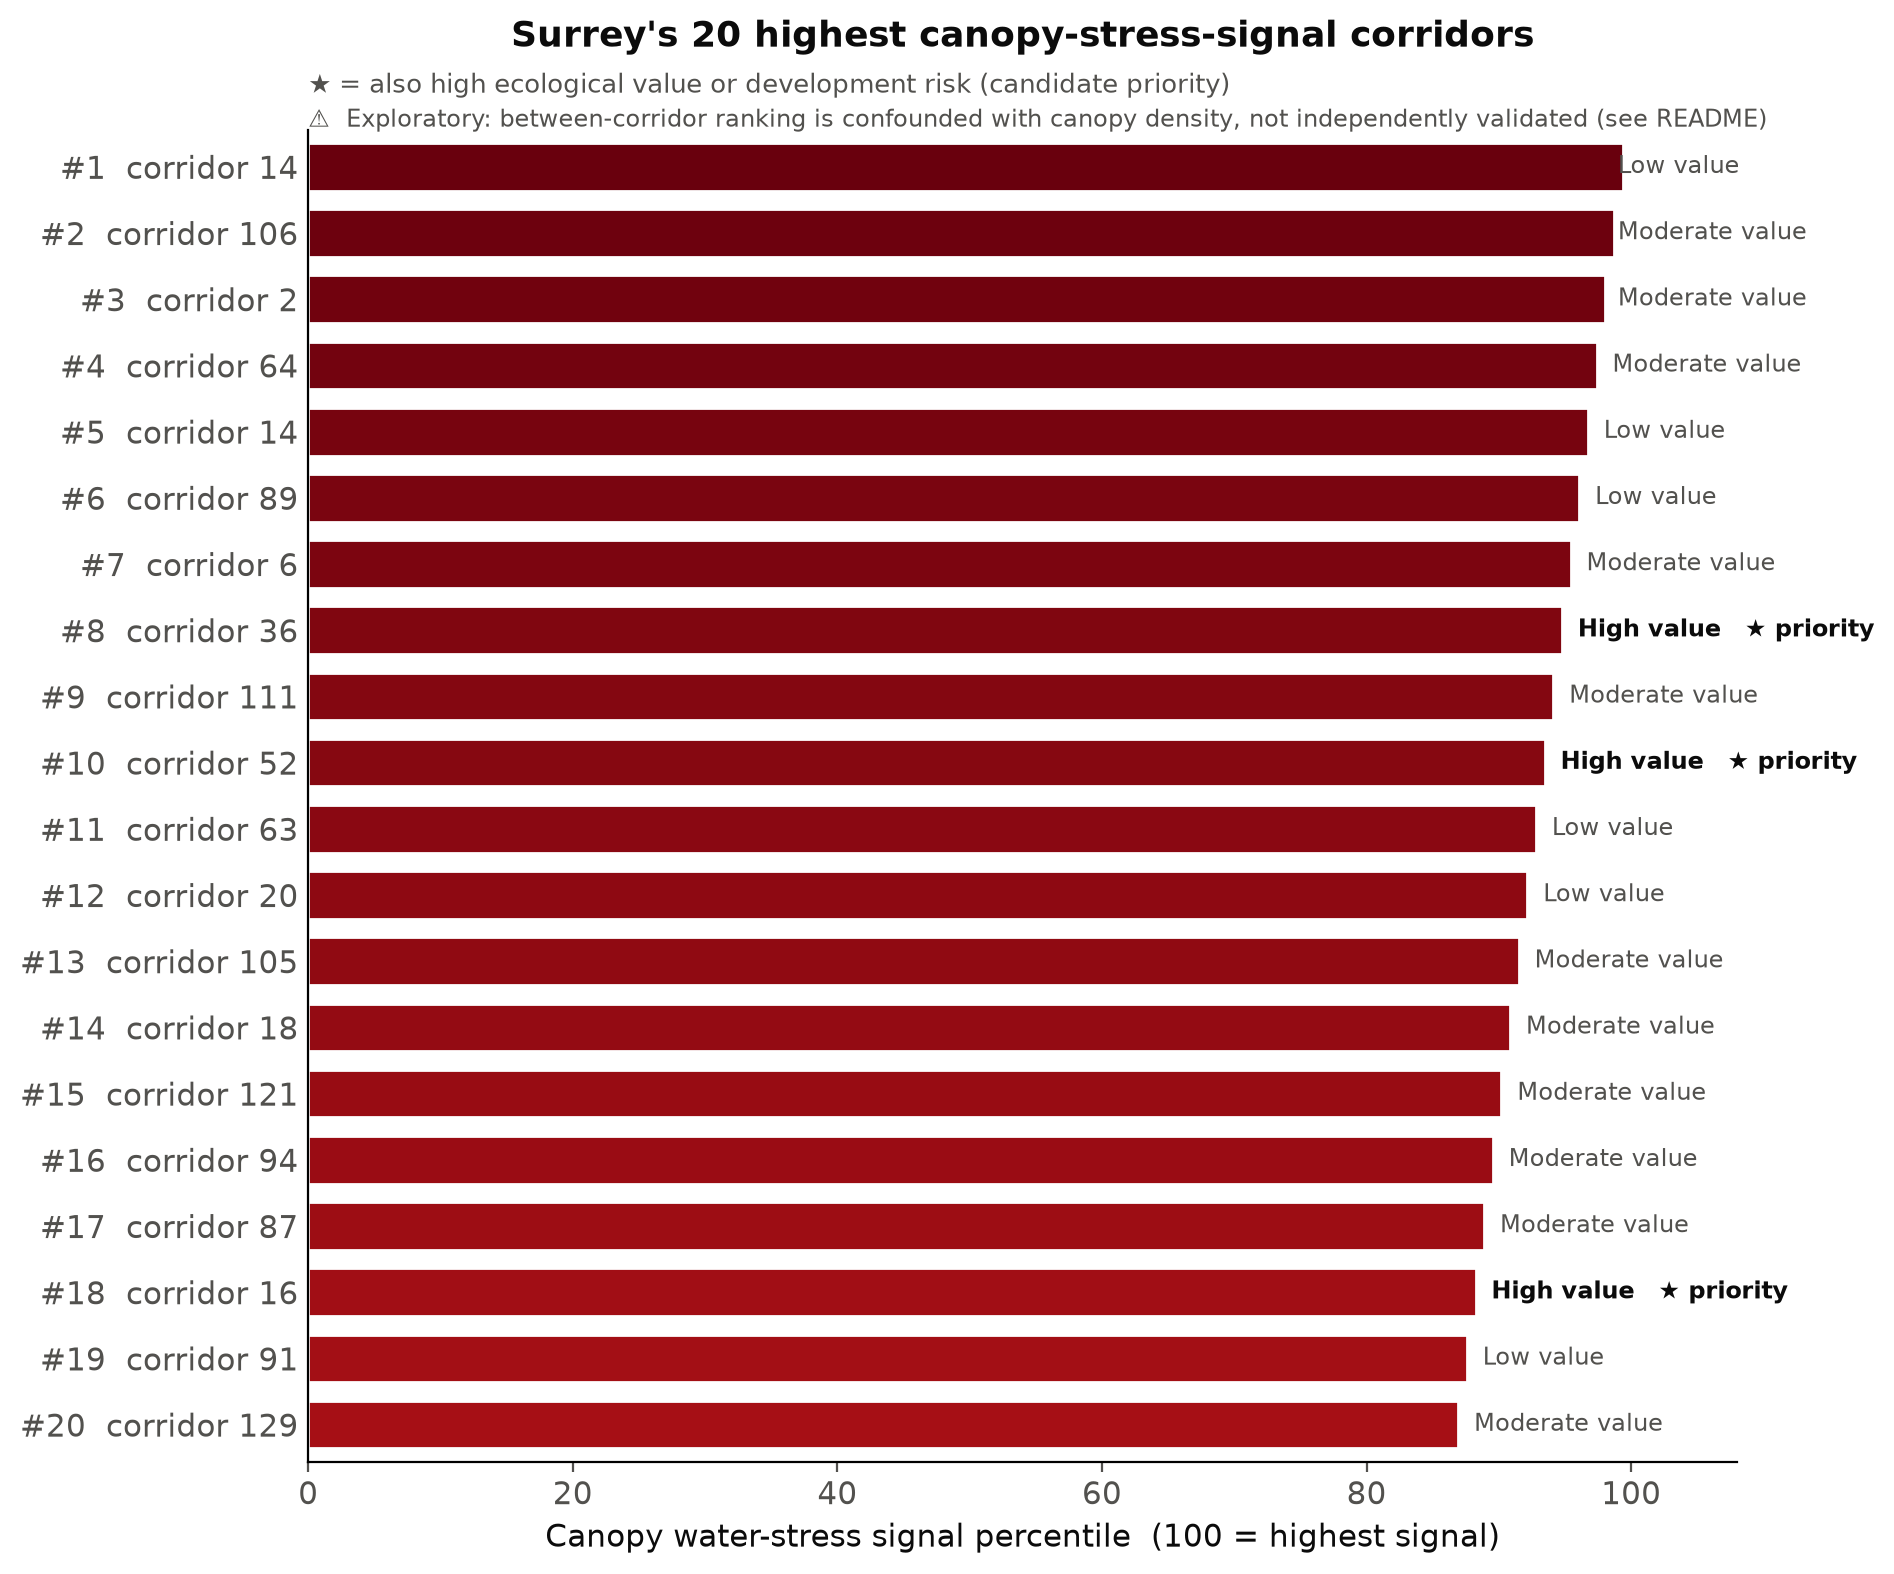
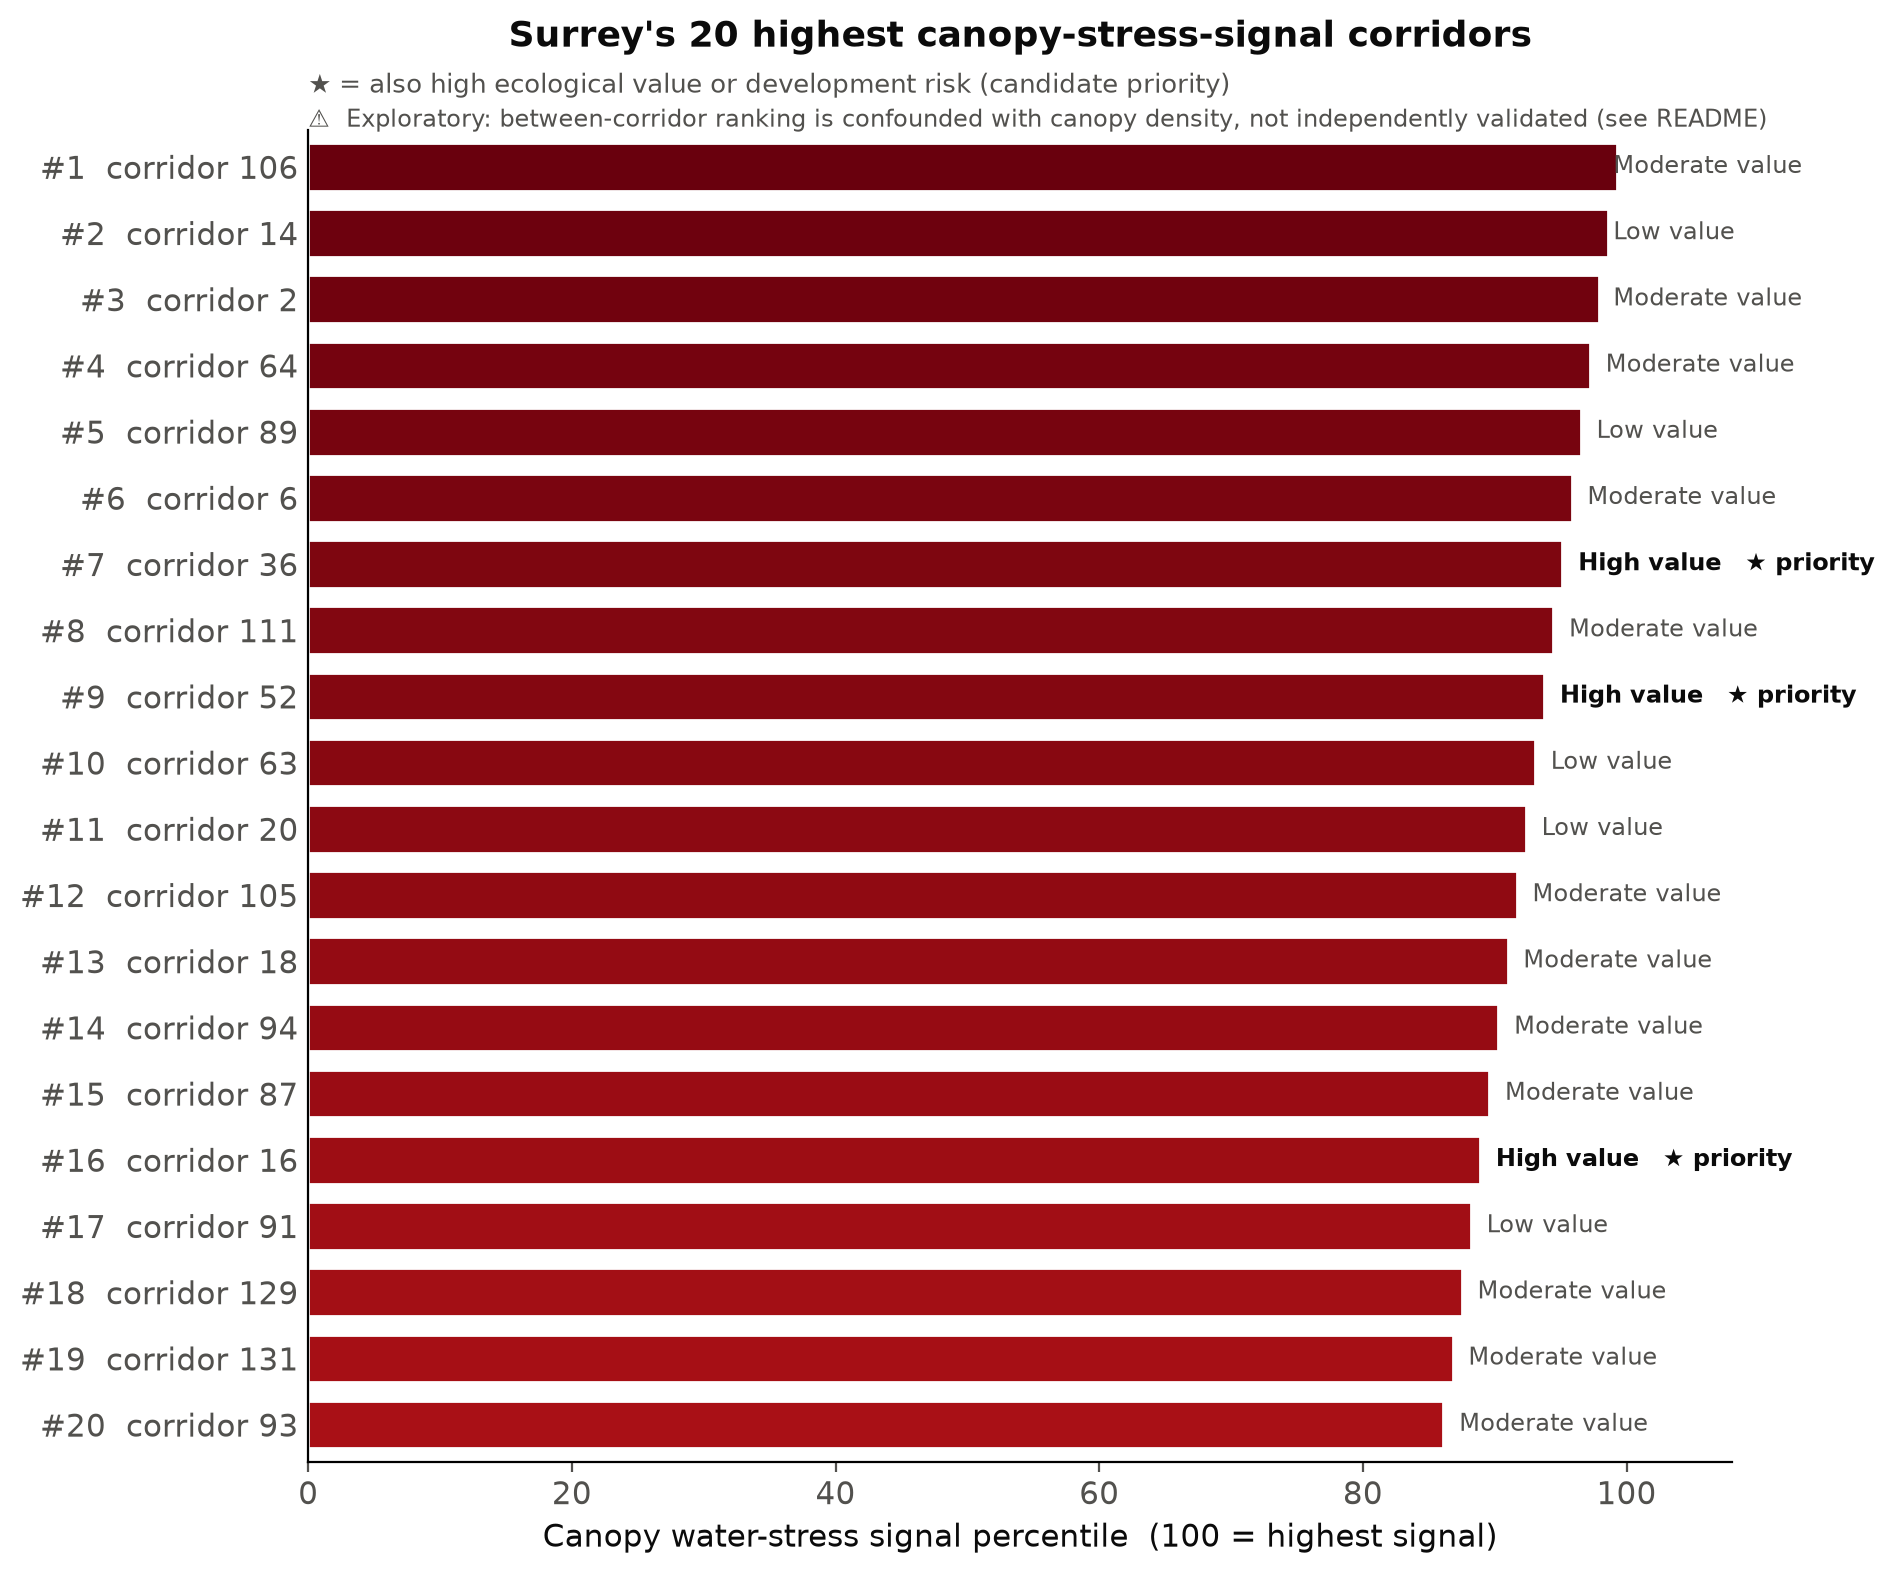
Deliverable figures name corridors, and count them correctly
The unit pass reached the manuscript on 2026-07-29 but not the deliverable side.
fig2_top_ranking was drawn from the polygon table while labelling bars with GIN
ids, so GIN 14 appeared twice -- ranks 1 and 5, two different stress values --
because that corridor is digitised in two pieces. run() now hands it gin_table(),
and fig_top_ranking warns if it is passed a table with repeated GIN ids.

fig3_dry_edge said "each dot = one corridor" over 153 polygon dots; it now names
both units and counts the GIN one from the panel so the subtitle cannot drift
from what is plotted.

diff --git a/src/pipeline/corridor_stress.py b/src/pipeline/corridor_stress.py
@@ -264,11 +264,24 @@ def fig_stress_map(gdf, out_path: Path, top_n: int = 8, *, standalone: bool = Tr
 
 
 def fig_top_ranking(gdf, out_path: Path, top_n: int = 20, *, standalone: bool = True):
+    """A ranked bar chart of the most-stressed units.
+
+    Pass the GIN table, not the polygon table. A polygon-level top-20 labelled by
+    GIN id lists GIN 14 twice — at ranks 1 and 5, with two different stress values
+    — because that corridor is digitised in two pieces. Ranking a corridor twice
+    is an artifact of digitisation and reads as a mistake to anyone who knows the
+    network.
+    """
     import matplotlib.pyplot as plt
     from matplotlib import colors
 
     _style()
     top = gdf.nsmallest(top_n, "stress_rank").iloc[::-1]
+    if "gin_id" in top.columns:
+        dupes = top["gin_id"].duplicated().sum()
+        if dupes:
+            logger.warning("top-%d contains %d repeated GIN id(s) — this looks like "
+                           "the polygon table; pass gin_table(gdf) instead", top_n, dupes)
     norm = colors.Normalize(0, 100)
     bar_c = plt.get_cmap(STRESS_CMAP)(norm(top["stress_pctile"]))
     # Labelled by GIN id — the number Surrey uses. objectid is an ArcGIS row
@@ -310,6 +323,9 @@ def fig_dry_edge(features_path: Path, out_path: Path, *, standalone: bool = True
     b = df["dry_edge_b"].iloc[0] if "dry_edge_b" in df else None
     cm_ = df.groupby("objectid").agg(ndvi=("ndvi_mean", "mean"), swci=("swci_mean", "mean"),
                                      tvwsi=("tvwsi", "mean")).reset_index()
+    # One dot per polygon, which is not one dot per GIN corridor — see gin_table.
+    # Counted from the panel so the subtitle cannot drift from what is plotted.
+    n_gin = int(df["id"].nunique()) if "id" in df.columns else len(cm_)
     stress = (1 - cm_["tvwsi"].rank(pct=True)) * 100
 
     fig, ax = plt.subplots(figsize=viz.figsize(8.5, 6.2))
@@ -324,8 +340,10 @@ def fig_dry_edge(features_path: Path, out_path: Path, *, standalone: bool = True
     ax.set(xlabel="NDVI (greenness)", ylabel="SWCI (canopy water content)")
     if standalone:
         ax.set_title("How corridor water stress is measured", pad=viz.pt(26))
-    ax.text(0.0, viz.stack(1.008, anchor=1.0), "Each dot = one corridor. Distance ABOVE the dry edge = water margin; "
-            "corridors near the line are stressed.", transform=ax.transAxes,
+    unit = (f"one of {len(cm_)} corridor polygons ({n_gin} GIN corridors)"
+            if n_gin != len(cm_) else f"one of {len(cm_)} corridors")
+    ax.text(0.0, viz.stack(1.008, anchor=1.0), f"Each dot = {unit}. Distance ABOVE the dry edge = water margin; "
+            "polygons near the line are stressed.", transform=ax.transAxes,
             fontsize=viz.pt(9), color=viz.INK_2)
     cb = fig.colorbar(sc, ax=ax, shrink=0.8)
     cb.set_label("stress percentile")
@@ -369,10 +387,13 @@ def run(features_path: Path = paths.FEATURES, corridors_gpkg: Path = CORRIDORS,
         logger.info("wrote %s (reporting unit: %d GIN corridors)",
                     out_dir / "corridor_stress_ranking.csv", len(gin))
     else:
+        gin = tidy
         tidy.to_csv(out_dir / "corridor_stress_ranking.csv", index=False)
 
+    # The map draws polygons because polygons are what has geometry; the ranked bar
+    # chart names corridors, so it takes the corridor table or it repeats one.
     fig_stress_map(gdf, out_dir / "fig1_stress_map.png")
-    fig_top_ranking(gdf, out_dir / "fig2_top_ranking.png")
+    fig_top_ranking(gin, out_dir / "fig2_top_ranking.png")
     fig_dry_edge(features_path, out_dir / "fig3_dry_edge.png")
 
     if manuscript_dir is not None:
@@ -406,19 +427,29 @@ def main() -> None:
     gdf = run(args.features, args.corridors, out_dir,
               manuscript_dir=args.manuscript_figures, mode=args.mode)
 
+    # Report the GIN corridor, not the polygon. The header says "corridor", so
+    # printing objectid here is what produced the original mislabelling: a
+    # polygon-level top-15 lists GIN 14 twice and names every row by an ArcGIS
+    # row number. Fall back to polygons only if the GIN key is unavailable.
+    report = gin_table(gdf) if "gin_id" in gdf.columns else gdf
+    by_gin = "gin_id" in gdf.columns
     print("=" * 70)
-    print("Surrey GIN corridor water-stress ranking — most-stressed first")
+    print("Surrey GIN corridor water-stress ranking — most-stressed first"
+          if by_gin else "Surrey corridor POLYGON ranking (no GIN key) — most-stressed first")
     print("=" * 70)
-    show = gdf.head(15)
-    for _, r in show.iterrows():
+    for _, r in report.head(15).iterrows():
         star = " " + r["priority"] if r["priority"] else ""
-        print(f"  #{int(r.stress_rank):>3}  corridor {int(r.objectid):>4}  "
+        label = (f"GIN {int(r.gin_id):>4}" if by_gin else f"polygon {int(r.objectid):>4}")
+        pieces = (f" ({int(r.n_polygons)} polygons)"
+                  if by_gin and int(r.n_polygons) > 1 else "")
+        print(f"  #{int(r.stress_rank):>3}  {label}  "
               f"stress {r.stress_pctile:5.1f}pct  "
               f"{str(r.ecological_value or '—'):<8} value  "
               f"{str(r.risk_of_development or '—'):<8} dev-risk  "
-              f"{r.years_in_driest_third}/4 summers driest-third{star}")
-    n_pri = int((gdf["priority"] != "").sum())
-    print(f"\n  {n_pri} corridors flagged PRIORITY (most-stressed third + high value/risk)")
+              f"{r.years_in_driest_third}/4 summers driest-third{star}{pieces}")
+    n_pri = int((report["priority"] != "").sum())
+    unit = "corridors" if by_gin else "polygons"
+    print(f"\n  {n_pri} {unit} flagged PRIORITY (most-stressed third + high value/risk)")
     print(f"  figures + full ranking -> {out_dir}  (mode: {args.mode})")
 
 

diff --git a/scripts/plot_cdei_feature_space.py b/scripts/plot_cdei_feature_space.py
@@ -8,8 +8,12 @@ SWCI means wet, so the dry edge is the LOWER envelope and slopes up. Drawing a
 purpose-built version avoids having to mentally flip a borrowed diagram every
 time.
 
-Everything plotted is measured, not illustrative: 612 real corridor-summers and
+Everything plotted is measured, not illustrative: 612 real polygon-summers and
 the dry edge actually fitted by ``assemble.dry_edge``.
+
+The row unit is the corridor POLYGON, not the City's GIN corridor: 153 polygons
+carry 144 GIN ids because seven corridors are digitised in several pieces. The
+subtitle counts both from the panel rather than hardcoding either.
 
     .venv/bin/python scripts/plot_cdei_feature_space.py
 """
@@ -77,6 +81,10 @@ def main(out: Path = OUT, *, standalone: bool = True, mode: str = "paper") -> No
     df = pd.read_parquet(paths.FEATURES)
     a = float(df["dry_edge_a"].iloc[0])
     b = float(df["dry_edge_b"].iloc[0])
+    # Both units, counted rather than asserted. `objectid` is the polygon (the row
+    # unit here); `id` is the City's GIN corridor id, and there are fewer of those.
+    n_poly = int(df["objectid"].nunique())
+    n_gin = int(df["id"].nunique()) if "id" in df.columns else n_poly
 
     fig = plt.figure(figsize=(11.5, 10.4), facecolor=SURFACE, dpi=200)
     gs = GridSpec(2, 4, figure=fig, height_ratios=[2.5, 1.0],
@@ -179,17 +187,20 @@ def main(out: Path = OUT, *, standalone: bool = True, mode: str = "paper") -> No
     # The explanatory line stays in both: it explains the construction rather
     # than restating the caption, and the figure is unreadable without it.
     fig.text(0.075, y_sub,
-             "Every corridor-summer placed by greenness against canopy water. Distance from the fitted dry edge is how far it sits\n"
+             "Every polygon-summer placed by greenness against canopy water. Distance from the fitted dry edge is how far it sits\n"
              "from being as dry as its greenness allows — that distance, divided by relative warmth, is CDEI.",
              color=INK_2, fontsize=11, ha="left", va="top", linespacing=1.6)
     fig.text(0.075, y_meta,
-             f"{len(df)} corridor-summers  ·  153 Surrey GIN corridors × {len(years)} summers  ·  "
+             # Deliberately no GIN count here: spelling out both units pushes this
+             # line past the axes and bbox_inches="tight" then widens the whole
+             # figure. The LaTeX caption carries the 144 instead.
+             f"{len(df)} polygon-summers  ·  {n_poly} Surrey corridor polygons × {len(years)} summers  ·  "
              "dry edge fitted by assemble.dry_edge (12 NDVI bins, 5th percentile)  ·  "
-             "corridors cluster in the closed-canopy end, where the wet-to-dry range is narrowest",
+             "polygons cluster in the closed-canopy end, where the wet-to-dry range is narrowest",
              color=MUTED, fontsize=9.5, ha="left", va="top")
     fig.text(0.075, max(tops) + 0.052,
-             "The same corridors, summer by summer — the whole cloud shifts together as the climate does, "
-             "while the spread between corridors stays put.",
+             "The same polygons, summer by summer — the whole cloud shifts together as the climate does, "
+             "while the spread between polygons stays put.",
              color=INK_2, fontsize=10.5, ha="left", va="bottom")
 
     out.parent.mkdir(parents=True, exist_ok=True)

diff --git a/scripts/parse_appendix_j.py b/scripts/parse_appendix_j.py
@@ -19,6 +19,15 @@ attributes against this table is what proves which column is which: joined on
 are digitised as several parts. That is why the polygon count and the corridor
 count differ, and why a top-20 polygon ranking can list one corridor twice.
 
+⚠ **The parent document is disputed with the manuscript.** This docstring says
+BCS and the downloaded PDF agrees — its 11 pages run "BCS • Spring 2014" over
+pages 119-129, which is what ``FURNITURE`` below matches on. But §1.1 of the
+preprint, and the verified note above ``@techreport{surreyEMS}`` in
+``references.bib``, both attribute Appendix J to the 2011 Ecosystem Management
+Study instead. Unresolved as of 2026-08-02; see ``docs/preprint/KNOWN_ISSUES.md``
+item S2. Nothing this script computes depends on the answer — it parses the file
+at ``URL`` either way — but the citation in the paper does.
+
     .venv/bin/python scripts/parse_appendix_j.py -v
 """
 

diff --git a/docs/deliverable/README.md b/docs/deliverable/README.md
@@ -1,6 +1,6 @@
 # Surrey GIN Corridor Water-Stress — Applied Deliverable
 
-A satellite-based tool for tracking water stress in the City of Surrey's 153
+A satellite-based tool for tracking water stress in the City of Surrey's 144
 Green-Infrastructure Network (GIN) corridors — **and an honest account of what it
 can and cannot yet claim**, after independent multi-sensor validation.
 
@@ -21,8 +21,8 @@ it against independent measurements. The two axes came out very differently:
   drought-monitoring tool should do. But be precise about how strong that evidence
   is. The headline figures (vs CMD ρ = −0.68, vs precipitation ρ = +0.72) are
   correlations over **four points** — the four summer means — and a correlation on
-  n = 4 establishes a *sign*, not a magnitude. Computed within corridors instead
-  (each corridor's own mean removed first, n = 612 corridor-summers), the same
+  n = 4 establishes a *sign*, not a magnitude. Computed within polygons instead
+  (each polygon's own mean removed first, n = 612 polygon-summers), the same
   relationships hold in the same directions but are weaker: ρ = −0.31 and ρ = +0.32.
   So: the index responds to drought the way it should, and four summers is too short
   to call that a validation. More summers (Sentinel-2 reaches back to ~2017) would
@@ -58,26 +58,34 @@ across flat Surrey.
 | `fig1_stress_map.png` | Surrey corridors mapped by the CDEI stress *signal* (dark = higher) |
 | `fig2_top_ranking.png` | the 20 highest-signal corridors, ranked, with priority flags |
 | `fig3_dry_edge.png` | how the index is defined — distance from the NDVI–SWCI dry edge |
-| `corridor_stress_ranking.csv` | all 153 corridors, full detail |
+| `corridor_stress_ranking.csv` | all **144 GIN corridors** — the reporting unit, with the City's own recommendation text |
+| `polygon_stress_ranking.csv` | all **153 corridor polygons** — the modelling unit, full detail |
+
+**Two units, deliberately.** The City's MapServer layer serves 153 polygons
+carrying 144 GIN corridor ids, because seven corridors are digitised in several
+pieces. The polygon is what the satellite statistics and cross-validation are
+computed on; the GIN corridor is what the City manages, and corridor values are
+area-weighted means of their polygons. Corridor ids below are the City's GIN ids,
+**not** ArcGIS row numbers — the two run 1–144 and 1–153 and do not correspond.
 
 ## Top 10 highest canopy-stress-signal corridors (mean summer CDEI, 2022–2025)
 *Exploratory ranking — see the validation note above.*
 
-| Rank | Corridor | Stress %ile | Ecological value | Dev. risk | Summers in driest third | Area (ha) |
-|---|---|---|---|---|---|---|
-| 1 | 73 | 99 | Low | Low | 4/4 | 0.8 |
-| 2 | 132 | 99 | Moderate | Moderate | 4/4 | 10.5 |
-| 3 | 81 | 98 | Moderate | Moderate | 4/4 | 2.9 |
-| 4 | 36 | 97 | Moderate | Low | 4/4 | 4.6 |
-| 5 | 71 | 97 | Low | Low | 4/4 | 0.8 |
-| 6 | 28 | 96 | Low | Moderate | 4/4 | 13.8 |
-| 7 | 78 | 95 | Moderate | Low | 4/4 | 0.8 |
-| 8 ★ | 1 | 95 | High | Moderate | 4/4 | 4.6 |
-| 9 | 15 | 94 | Moderate | Moderate | 4/4 | 4.1 |
-| 10 ★ | 121 | 93 | High | Moderate | 4/4 | 7.7 |
+| Rank | GIN corridor | Polygons | Stress %ile | Ecological value | Dev. risk | Summers in driest third | Area (ha) |
+|---|---|---|---|---|---|---|---|
+| 1 | 106 | 1 | 99 | Moderate | Moderate | 4/4 | 10.5 |
+| 2 | 14 | 2 | 99 | Low | Low | 4/4 | 1.6 |
+| 3 | 2 | 1 | 98 | Moderate | Moderate | 4/4 | 2.9 |
+| 4 | 64 | 1 | 97 | Moderate | Low | 4/4 | 4.6 |
+| 5 | 89 | 1 | 97 | Low | Moderate | 4/4 | 13.8 |
+| 6 | 6 | 1 | 96 | Moderate | Low | 4/4 | 0.8 |
+| 7 ★ | 36 | 1 | 95 | High | Moderate | 4/4 | 4.6 |
+| 8 | 111 | 1 | 94 | Moderate | Moderate | 4/4 | 4.1 |
+| 9 ★ | 52 | 1 | 94 | High | Moderate | 4/4 | 7.7 |
+| 10 | 63 | 1 | 93 | Low | Moderate | 4/4 | 5.5 |
 
 ★ = would be a restoration **priority** (highest-signal third *and* high ecological
-value or development risk) — **if** the spatial ranking validates. 15 of 153 corridors
+value or development risk) — **if** the spatial ranking validates. 14 of 144 corridors
 carry this flag; treat as candidates to investigate, not a confirmed list.
 
 ## How to read the index
@@ -98,7 +106,7 @@ canopy."
 - 4 summers is a short record, not a climate trend — and too short to support a
   temporal *validation* claim (see the direction-check note above). Every correlation
   reported here carries its n: n = 4 for the across-summer figures, n = 612 for the
-  within-corridor ones.
+  within-polygon ones.
 
 ## What is solid, and where to take it next
 - **Solid:** CDEI as a *temporal* drought monitor for Surrey's corridors — it moves
